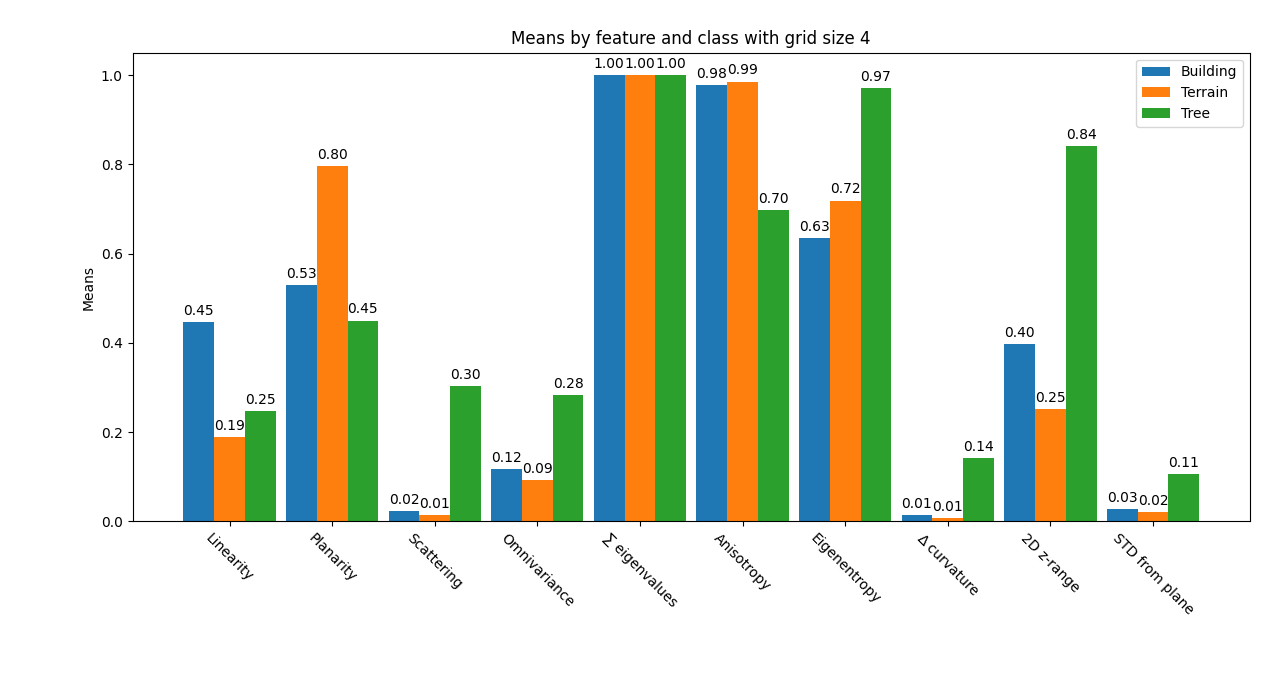
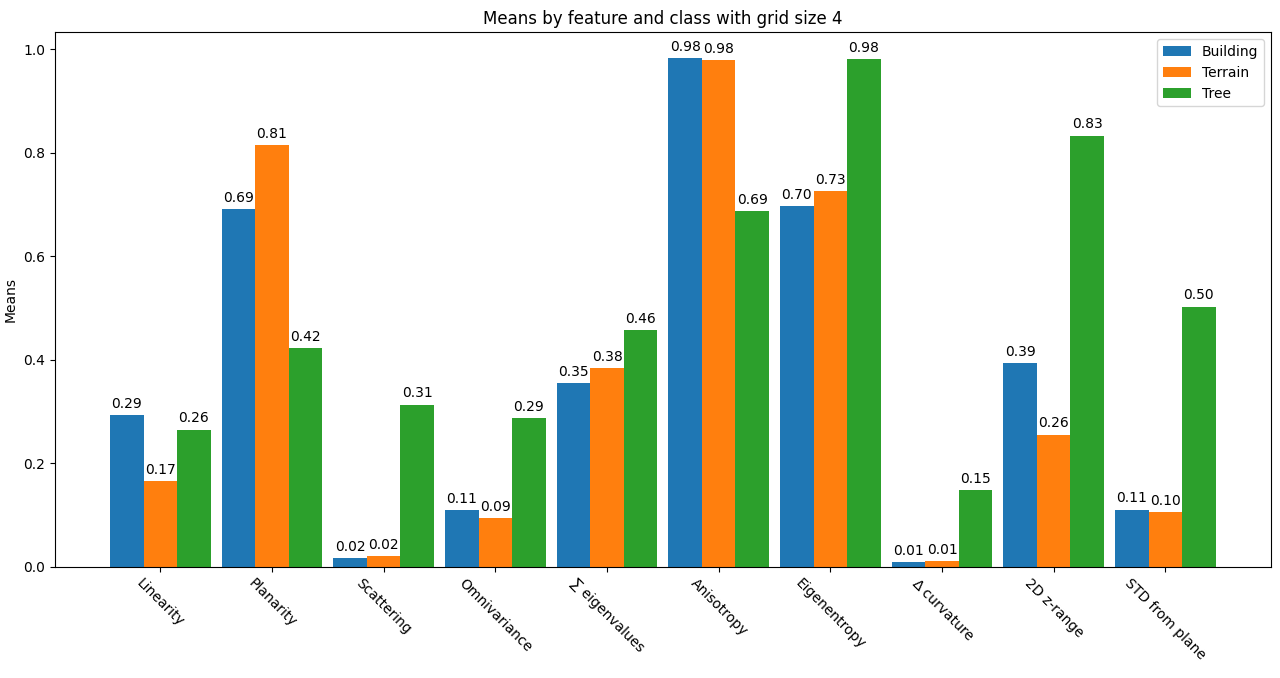
Added new images and improoved algorithm

diff --git a/prosjekt/main.py b/prosjekt/main.py
@@ -42,13 +42,13 @@ class Classification():
             self.selected_feature_indecies = [1, 2, 3, 7]
         else:
             # For grid_size 4
-            self.selected_feature_indecies = [3, 9]
+            self.selected_feature_indecies = [1, 2, 3, 5, 6, 7, 9]
 
         # For all features
         # self.selected_feature_indecies = [0, 1, 2, 3, 4, 5, 6, 7, 8, 9]
 
         # TODO: sett riktig...
-        self.selected_feature_weights = [1, 1, 1, 1, 1, 1, 1, 1, 1]
+        self.selected_feature_weights = [1, 1, 1, 1, 1, 1, 1, 1, 1, 1]
 
     def run_calculations(self):
         # Find mean and std values for the features
@@ -86,6 +86,15 @@ class Classification():
         terrain_points = np.delete(terrain_points, 0, axis=0)
         tree_points = np.delete(tree_points, 0, axis=0)
 
+        # Print out some stats
+        total_points_classified = building_points.shape[0] + terrain_points.shape[0] + tree_points.shape[0]
+        building_percentage = building_points.shape[0] / total_points_classified
+        terrain_percentage = terrain_points.shape[0] / total_points_classified
+        tree_percentage = tree_points.shape[0] / total_points_classified
+        print('Number of building points:', building_points.shape[0], '= ' + str(building_percentage) + '%')
+        print('Number of terrain points :', terrain_points.shape[0], '= ' + str(terrain_percentage) + '%')
+        print('Number of tree points    :', tree_points.shape[0], '= ' + str(tree_percentage) + '%')
+
         # Visualize the result
         # Will only visualize the classified voxels, not voxels with too few points in it (<10)
         self.visualize_all_voxels_with_class(building_points, terrain_points, tree_points)
@@ -99,9 +108,17 @@ class Classification():
             return building_voxel_indecies, terrain_voxel_indecies, tree_voxel_indecies
 
         # for grid_size = 4
-        building_voxel_indecies = [327, 444, 445, 446, 454, 560, 712, 1405, 5089, 8151]
-        terrain_voxel_indecies = [213, 300, 301, 401, 449, 1413, 1414, 5080, 5104, 5117]
-        tree_voxel_indecies = [208, 211, 5002, 5009, 8083, 8088, 8092, 8108, 8113, 8120]
+        # fine
+        building_voxel_indecies = [327, 443, 454, 560, 559, 712, 1405, 2997, 3172, 3174, 3190, 3206, 5089, 8151]
+        terrain_voxel_indecies = [213, 300, 301, 401, 449, 525, 530, 1413, 1414, 2991, 3164, 5080, 5104, 5117]
+        tree_voxel_indecies = [208, 211, 708, 5002, 5009, 8083, 8088, 8092, 8108, 8113, 8120, 11175, 11176, 11155]
+        
+        # grove
+        # building_voxel_indecies = [46, 63, 129, 398, 499, 500]
+        # terrain_voxel_indecies = [1, 2, 11, 13, 121, 495]
+        # tree_voxel_indecies = [21, 260, 261, 404, 405]
+        # ekstra grove: 11, 63, 398
+
         return building_voxel_indecies, terrain_voxel_indecies, tree_voxel_indecies
 
     def select_features(self):
@@ -142,19 +159,23 @@ class Classification():
                 plane_std = self.standard_deviation_from_plane(voxel_points, i)
                 
                 # Liste med alle featursene
-                fs = [L, P, S, O, sum_ev_norm, A, E, change_curvature, z_range, plane_std] 
+                fs = [L, P, S, O, sum_ev, A, E, change_curvature, z_range, plane_std] 
                 
                 self.features[i] = fs
 
                 # if i in building_voxel_indecies:
                 #     self.visualize_voxel_on_cloud(voxel_points, i)
 
-                # if i >= 400:
+                # if i >= 490:
                 #     self.visualize_voxel_on_cloud(voxel_points, i)
         
         # Nomalize plane_std
-        max_plane_std = np.max(self.features[:,9])
+        max_plane_std = np.max(self.features[:, 9])
         self.features[:, 9] /= max_plane_std
+
+        # Normalize sum_ev
+        max_sum_ev = np.max(self.features[:, 4])
+        self.features[:, 4] /= max_sum_ev
 
         # [L, P, S, O, sum_ev, A, E, change_curvature, z_range, plane_std] 
         building_mean_features = np.mean([self.features[v_i] for v_i in building_voxel_indecies], axis=0)
@@ -292,6 +313,9 @@ class Classification():
 
         make_plot([building_std, terrain_std, tree_std], 'STD')
 
+    def visualize_cloud(self):
+        o3d.visualization.draw_geometries([self.all_points])
+
     def visualize_voxel_on_cloud(self, voxel_points, i):
         print(i)
         vox = o3d.geometry.PointCloud()
@@ -378,4 +402,5 @@ if __name__ == "__main__":
     # classifier.select_features()
     # classifier.plot_feature_mean_and_std()
     # classifier.visualize_voxel_indecies()
+    # classifier.visualize_cloud()
     classifier.run_calculations()

diff --git a/oving_2/main.py b/oving_2/main.py
@@ -125,11 +125,11 @@ class RANSAC():
       # Set up a 3D bounding box around the tree stems
       all_distances = self.calculate_circle_ditances(self.sorted_cloud, center)
       tree = self.calculate_close_points(self.sorted_cloud, all_distances, max_point_distance + max_point_distance * 0.3)
-      diameter = tree_part.radius * 2
+      # diameter = tree_part.radius * 2
       tree_found = True
 
     # Export the point clouds inside the bounding boxes
-    return tree, diameter
+    return tree, tree_part
 
   def sort_cloud(self, cloud):
     return cloud[np.argsort(cloud[:, 2])]
@@ -236,13 +236,24 @@ class RANSAC():
 def visualize_10_trees(ransac):
   # # # Do RANSAC several times and save the results
   trees = np.zeros((1,3))
-  for i in range(20):
-
-    # TODO: check if the same tree is found before.
-
+  tree_centers = np.zeros((1,3))
+  i = 0
+  while i < 10:
     # Run the calculations
-    tree, diameter = ransac.run_calculations()
+    tree, tree_part = ransac.run_calculations()
+    
+    # TODO: check if the same tree is found before of if this  
+    # prevents it from happeing
+    found_before = False
+    for c in range(tree_centers.shape[0]):
+      if np.sqrt(np.sum((tree_part.center - tree_centers[c])**2)) < 0.2:
+        found_before = True
 
+    if found_before:
+      print('Tree found before...')
+      continue
+
+    diameter = tree_part.radius * 2
     # Show progress
     print("-"*5, "Found tree", i, "-"*5)
     print('Number of points:', tree.shape[0])
@@ -251,6 +262,8 @@ def visualize_10_trees(ransac):
     # Elevate roof points to make them visible
     # tree = tree + [0, 0, 0.01]
     trees = np.append(trees, tree, axis=0)
+    tree_centers = np.append(tree_centers, tree_part.center)
+    i += 1
 
   print("-"*5, "DONE", "-"*5)
   trees = np.delete(trees, 0, axis=0)
@@ -258,6 +271,7 @@ def visualize_10_trees(ransac):
   # Generate o3d cloud
   cloud = o3d.geometry.PointCloud()
   cloud.points = o3d.utility.Vector3dVector(trees)
+
   # cloud.paint_uniform_color([0.1, 0.1, 0.1])
 
   # TODO: set up a BB around each tree
